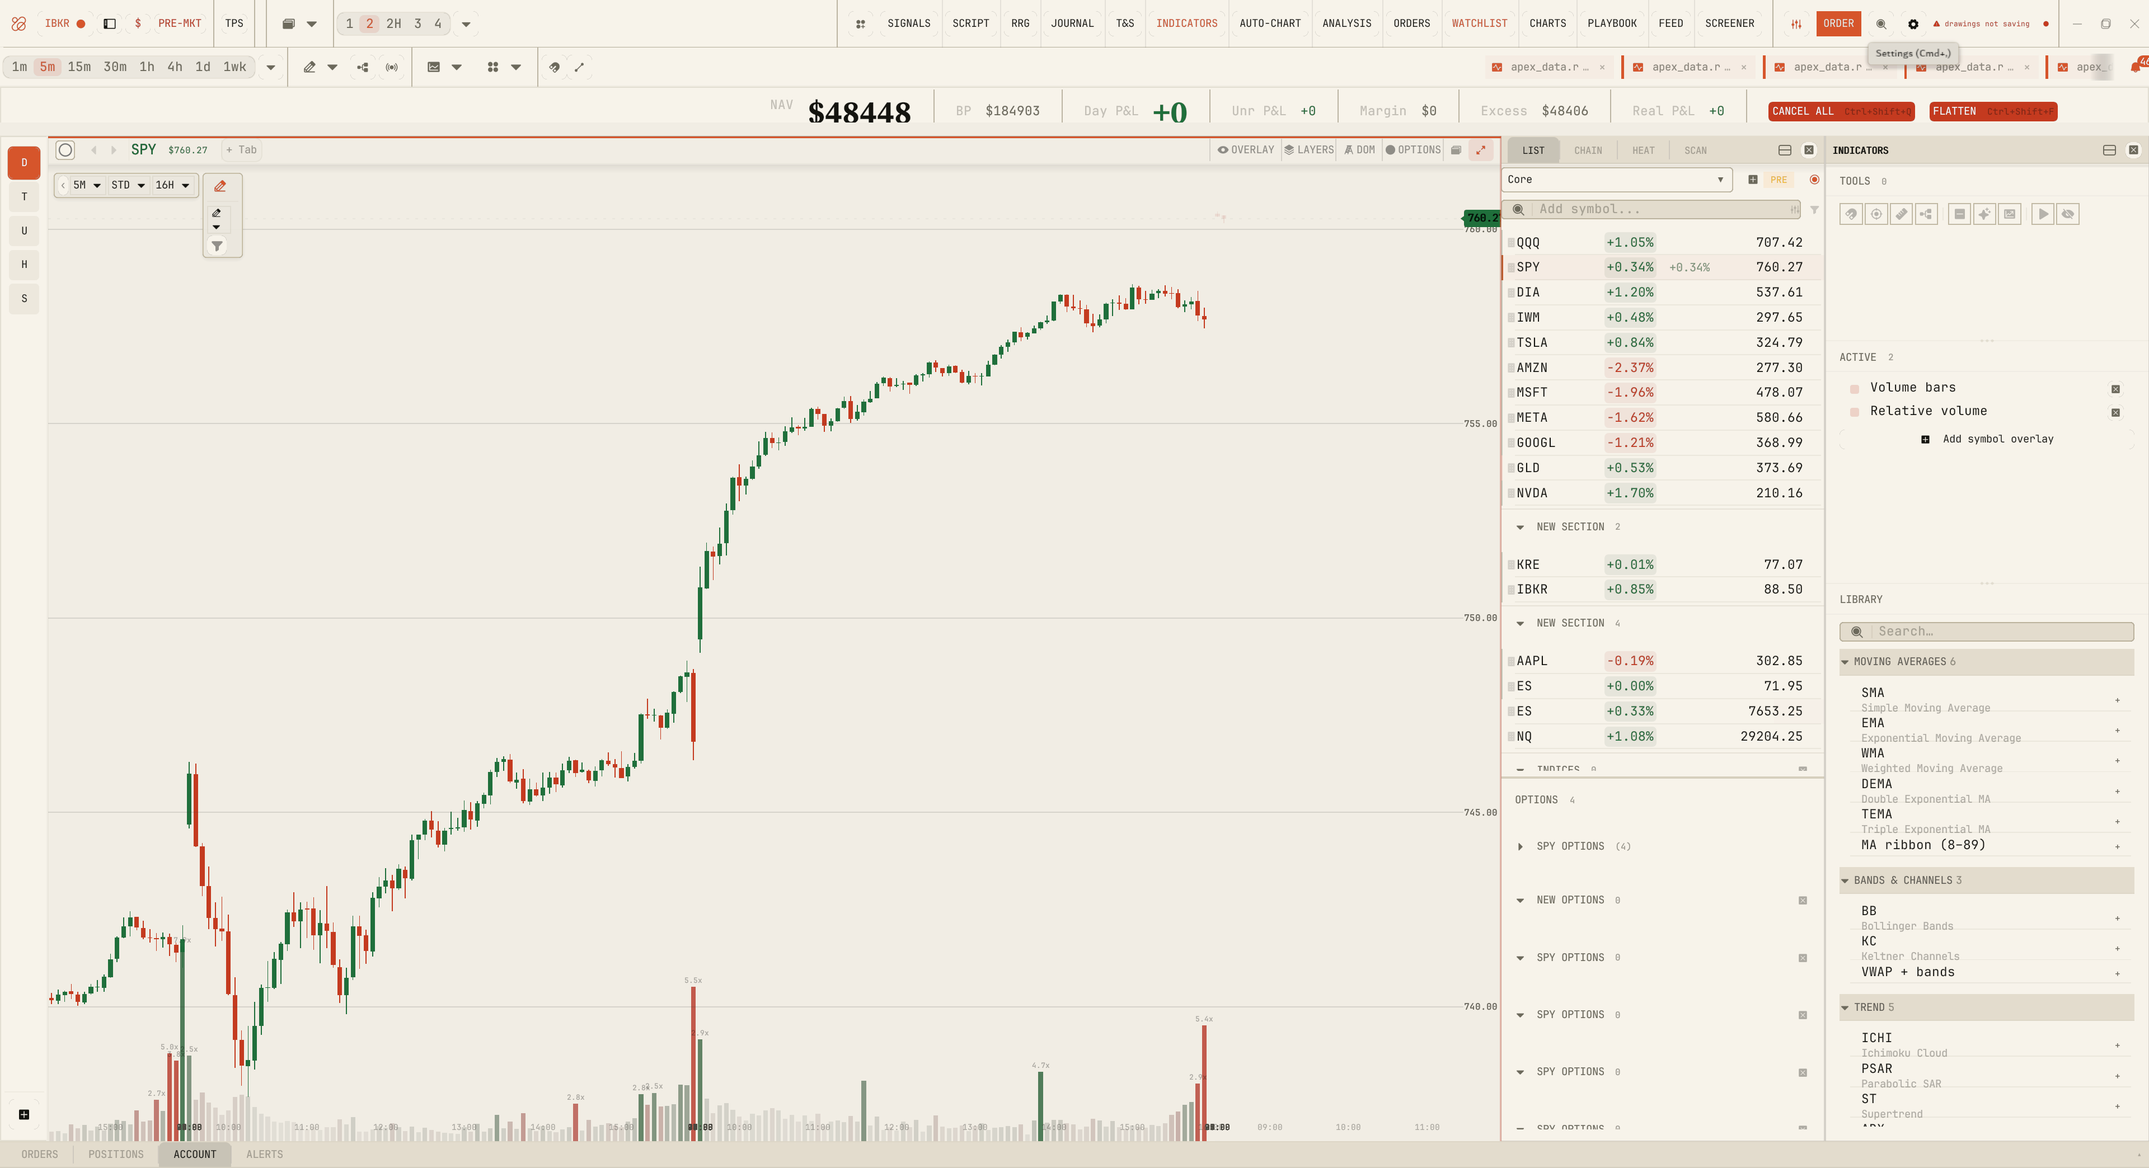
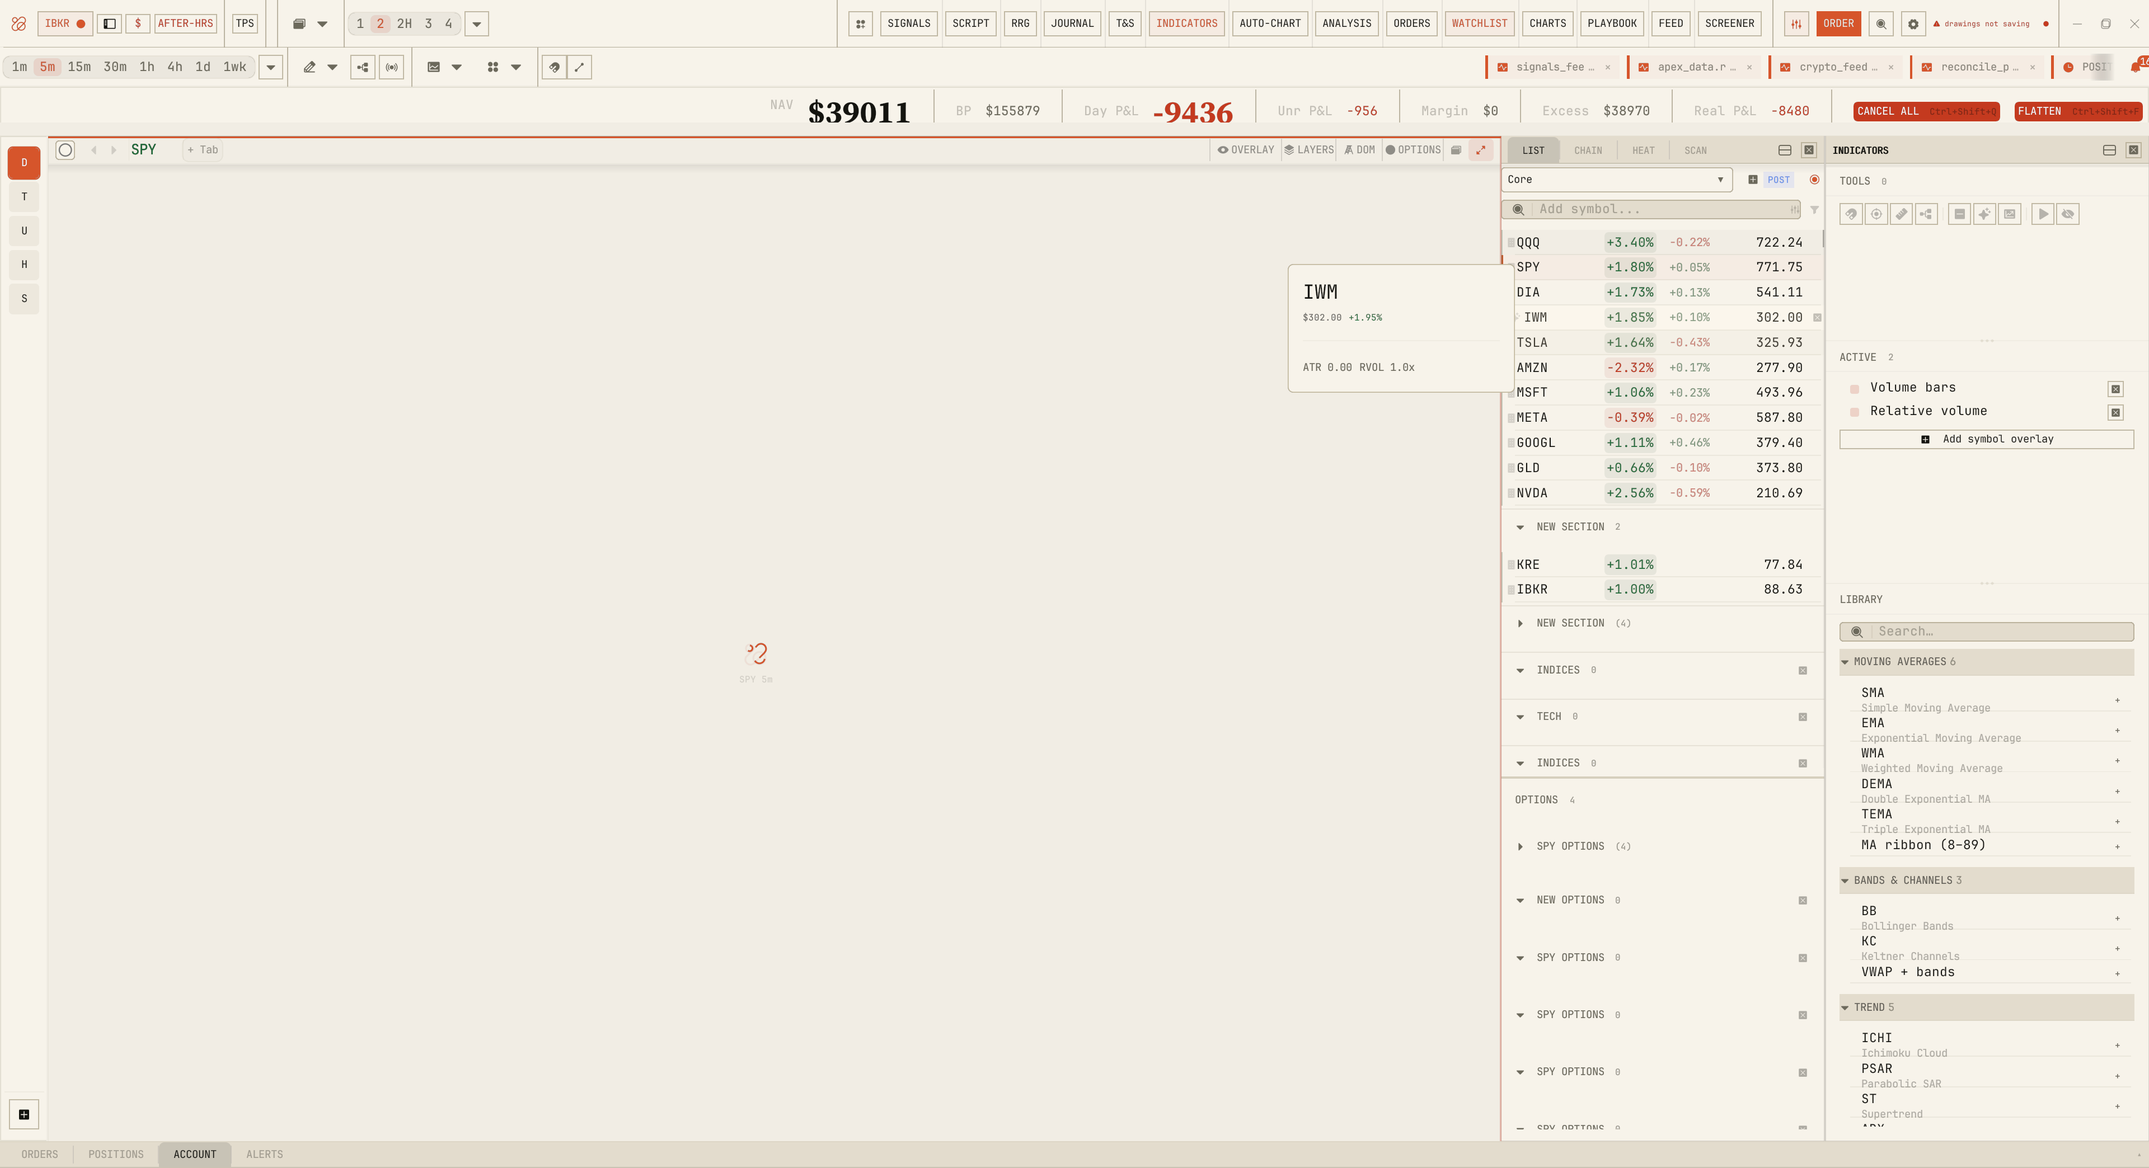
DELETE CardRecipe — the losing card mechanism is gone, not just demoted
Completes the decision: the `card` recipe won, so the mechanism it beat is
removed rather than left as a fallback. Keeping a second card mechanism
alive "just in case" is precisely how the duplication started.

Removed: the `CardRecipe` struct, `StyleSystem.card`, the four authored
values, `set_card_recipe`/`card_recipe` and their store, the adapter call,
and the export/loader wiring I had added for it two days ago.

SAFE BY CONSTRUCTION, checked before deleting rather than after: the
fallback branch was reachable only for a style that authors CardRecipe and
NOT a `card` recipe. All six builtins author the recipe — held by
`card_is_described_by_two_competing_mechanisms`, which I ran first — and
every one sets radius and padding, so `recipe_authored` was already true
everywhere. The branch was dead on arrival. Captures confirm: aperture
(0,0,0), meridien (241,237,228), unchanged.

THE TEST MOVED, IT DID NOT GO AWAY. `ds_2_4_acceptance` and
`borderless_is_the_exception_not_the_rule` asserted DS-2.4's criterion
THROUGH CardRecipe — "Aperture cards paint no stroke; Lucid pads 20px vs
Alto's 14px". Deleting the mechanism would have deleted the requirement
with it, silently, which is the worst way to lose a design constraint. I
checked the recipes carry the same values (aperture `no_border`, lucid
`px 20`, alto `px 14`) and re-pointed both tests at the recipe layer.

Deleting a mechanism must not quietly delete the requirement it happened
to be checked through.
[…]

diff --git a/src-tauri/src/design_system/builtin.rs b/src-tauri/src/design_system/builtin.rs
@@ -34,7 +34,7 @@
 use super::{
     color_scheme::{ColorScheme, Meta, Rgba, CMD_PALETTE_DEFAULT},
     style_system::{
-        Alphas, Archetype, BevelStyle, CardRecipe, Chrome, Density, Elevation, FocusRingStyle, GroupEnclosure, Radii, Shadows, ShadowLayer,
+        Alphas, Archetype, BevelStyle, Chrome, Density, Elevation, FocusRingStyle, GroupEnclosure, Radii, Shadows, ShadowLayer,
         ShadowSpec, ShadowTint, ShellSpec, Spacing, Strokes, StyleSystem, Treatments, Typography,
     },
 };
@@ -1138,8 +1138,6 @@ pub fn builtin_style_systems() -> Vec<StyleSystem> {
             panel_footer_card: false, panel_footer_radius: 0.0,
         },
         numerals: None,
-        // Meridien: square editorial card with its signature hairline rule.
-        card: Some(CardRecipe { radius: 0.0, padding: 14.0, border_width: Some(0.5) }),
     };
 
     // ── Aperture (id=1) ───────────────────────────────────────────────────────
@@ -1278,17 +1276,6 @@ pub fn builtin_style_systems() -> Vec<StyleSystem> {
             panel_footer_card: true, panel_footer_radius: 10.0,
         },
         numerals: None,
-        // DS-6.0 D4 / DS-2.4: Aperture ships `--ds-card-border: none`
-        // LITERALLY. `border_width: None` means NO STROKE AT ALL — not a
-        // zero-width one — so separation falls to elevation, the bevel tints
-        // and the background step, which is what M0-M3 built the shadow-layer
-        // stack and BevelSpec for.
-        //
-        // This had to be AUTHORED, not just declared: `CardRecipe` shipped in
-        // M1 with zero data, so every style fell through panel_card.rs's
-        // derived branch and painted `stroke_thin()`. Aperture's recipe said
-        // "no border" while the card path never saw it.
-        card: Some(CardRecipe { radius: 20.0, padding: 16.0, border_width: None }),
     };
 
     // ── Octave (id=2) ─────────────────────────────────────────────────────────
@@ -1419,7 +1406,7 @@ pub fn builtin_style_systems() -> Vec<StyleSystem> {
             panel_header_treatment: 0, panel_section_fill_alpha: 0,
             panel_footer_card: false, panel_footer_radius: 0.0,
         },
-        numerals: None, card: None,
+        numerals: None,
     };
 
     // ── Cadence (id=3) — Spotify-dark: pill primaries, elevated cards ────────
@@ -1462,8 +1449,6 @@ pub fn builtin_style_systems() -> Vec<StyleSystem> {
     // ── Alto (id=4) — Zed warm-dark: raised button faces, amber bevel ────────
     let alto = StyleSystem {
         meta: Meta::new("alto", "Alto", true),
-        // DS-2.4 acceptance: Alto's 14px against Lucid's 20px.
-        card: Some(CardRecipe { radius: 8.0, padding: 14.0, border_width: Some(1.0) }),
         radii: Radii { none: 0.0, xs: 2.0, sm: 4.0, md: 6.0, lg: 8.0, full: 9999.0, pill: 99.0, chip: 0.0 },
         density: Density { factor: 1.0, row_height_dense: 24.0, row_height_comfortable: 30.0, ..Density::default() },
         shadows: Shadows {
@@ -1523,9 +1508,6 @@ pub fn builtin_style_systems() -> Vec<StyleSystem> {
     // ── Lucid (id=6) — editorial LIGHT: flat, restrained radii, serif hero ────
     let lucid = StyleSystem {
         meta: Meta::new("lucid", "Lucid", false),
-        // DS-2.4 acceptance: Lucid pads 20px against Alto's 14px — the padding
-        // axis has to be visibly different between two light-ish editorial cards.
-        card: Some(CardRecipe { radius: 8.0, padding: 20.0, border_width: Some(1.0) }),
         // DS-6.0 D1: the theme's DEFAULT archetype. A workspace may
         // override it; see ShellSpec::resolve_archetype.
         shell: ShellSpec { archetype: Archetype::Editorial, ..ShellSpec::default() },
@@ -1704,52 +1686,63 @@ mod tests {
 
 #[cfg(test)]
 mod card_recipe_tests {
-    use super::*;
+    //! DS-2.4's acceptance, re-pointed at the RECIPE layer.
+    //!
+    //! These assertions used to read `StyleSystem.card` (CardRecipe). That
+    //! mechanism is deleted — the `card` recipe won, and every builtin authors
+    //! it — but the CRITERION it guarded is unchanged and still worth holding,
+    //! so the test moved rather than went away. Deleting a mechanism must not
+    //! quietly delete the requirement it happened to be checked through.
+    use crate::design_system::builtin_recipes::builtin_recipes;
+    use crate::ui_kit::sx::recipe_spec::{BorderWidthTier, PadTier, RadiusTier};
 
-    fn card_of(id: &str) -> CardRecipe {
-        builtin_style_systems()
-            .into_iter()
-            .find(|s| s.meta.id == id)
-            .unwrap_or_else(|| panic!("builtin style '{id}' missing"))
-            .card
-            .unwrap_or_else(|| panic!("style '{id}' authors no CardRecipe — it would \
-                fall through panel_card.rs's DERIVED branch and paint stroke_thin(), \
-                which is exactly the bug this data fixes"))
+    fn card_px(id: &str) -> f32 {
+        let set = builtin_recipes(id);
+        let spec = set.get("card").unwrap_or_else(|| panic!("style '{id}' authors no card recipe"));
+        match &spec.base.px {
+            Some(PadTier::Px(v)) => *v,
+            other => panic!("style '{id}' card padding is not a literal px: {other:?}"),
+        }
     }
 
-    /// DS-6.0 D4 / DS-2.4 acceptance, stated as the ticket words it:
     /// "Aperture cards paint no stroke; Lucid pads 20px vs Alto's 14px."
     #[test]
     fn ds_2_4_acceptance() {
-        // `None` = no stroke AT ALL, not a zero-width one. A zero-width stroke
-        // would still be a border the theme is committing to; the design says
-        // separation comes from elevation and bevel instead.
-        assert_eq!(
-            card_of("aperture").border_width, None,
-            "Aperture ships `--ds-card-border: none` literally (D4)"
+        let ap = builtin_recipes("aperture");
+        let spec = ap.get("card").expect("aperture authors card");
+        let border = spec.base.border.as_ref().expect(
+            "aperture must state its border EXPLICITLY — omitting the field inherits              the widget stroke instead of removing it",
         );
-        assert_eq!(card_of("lucid").padding, 20.0, "Lucid pads 20px");
-        assert_eq!(card_of("alto").padding,  14.0, "Alto pads 14px");
         assert!(
-            card_of("lucid").padding > card_of("alto").padding,
-            "the padding axis must be visibly different between these two, \
-             which is the point of the acceptance criterion"
+            matches!(border.width, Some(BorderWidthTier::None)),
+            "Aperture ships `--ds-card-border: none` literally; got {:?}",
+            border.width
+        );
+        assert!(matches!(spec.base.radius, Some(RadiusTier::Lg)));
+
+        assert_eq!(card_px("lucid"), 20.0, "Lucid pads 20px");
+        assert_eq!(card_px("alto"),  14.0, "Alto pads 14px");
+        assert!(
+            card_px("lucid") > card_px("alto"),
+            "the padding axis must be visibly different between these two, which is              the point of the acceptance criterion"
         );
     }
 
-    /// D4 says exceptions are PER-RECIPE, never a global fallback. So exactly
-    /// one style may be borderless today — if a second appears, that is a
-    /// global fallback creeping in by imitation rather than a design decision.
+    /// Borderless is the EXCEPTION. D4 says exceptions are per-recipe, never a
+    /// global fallback — if a second style turns up borderless that is
+    /// imitation creeping in, not a design decision.
     #[test]
     fn borderless_is_the_exception_not_the_rule() {
-        let borderless: Vec<String> = builtin_style_systems()
+        let borderless: Vec<&str> = ["aperture", "cadence", "alto", "mariner", "lucid", "meridien"]
             .into_iter()
-            .filter(|s| s.card.map(|c| c.border_width.is_none()).unwrap_or(false))
-            .map(|s| s.meta.id)
+            .filter(|id| {
+                builtin_recipes(id)
+                    .get("card")
+                    .and_then(|s| s.base.border.as_ref())
+                    .map(|b| matches!(b.width, Some(BorderWidthTier::None)))
+                    .unwrap_or(false)
+            })
             .collect();
-        assert_eq!(
-            borderless, vec!["aperture".to_string()],
-            "only Aperture is designed borderless; got {borderless:?}"
-        );
+        assert_eq!(borderless, vec!["aperture"], "only Aperture is designed borderless");
     }
 }

diff --git a/src-tauri/src/design_system/loader.rs b/src-tauri/src/design_system/loader.rs
@@ -29,7 +29,7 @@ use std::fmt;
 use super::{
     color_scheme::{rgba, ColorScheme, Meta, Rgba, CMD_PALETTE_DEFAULT},
     style_system::{
-        Alphas, BevelStyle, CardRecipe, Chrome, Density, Elevation, FocusRingStyle, GroupEnclosure,
+        Alphas, BevelStyle, Chrome, Density, Elevation, FocusRingStyle, GroupEnclosure,
         Archetype, DockStyle, NavStyle, PaneActiveIndicator, Radii, RailSide, Shadows, ShadowSpec, ShellSpec,
         Spacing, Strokes, StyleSystem, Treatments, Typography,
     },
@@ -632,20 +632,6 @@ impl StyleSystem {
             panel_footer_radius:           read_f32_or(&ch_sec, "panel_footer_radius",           "chrome", d_ch.panel_footer_radius),
         };
 
-        // M1 Change D `CardRecipe`. Absent (or null) = no authored card, which
-        // keeps panel_card.rs on its derived branch. Present-but-without
-        // `border_width` = `None`, i.e. NO STROKE AT ALL — that is Aperture's
-        // `--ds-card-border: none`, and collapsing it to 0.0 would lose the
-        // distinction the design depends on.
-        let card = root.get("card").filter(|v| !v.is_null()).map(|c| {
-            let d = CardRecipe { radius: 0.0, padding: 0.0, border_width: None };
-            CardRecipe {
-                radius:  read_f32_or(c, "radius",  "card", d.radius),
-                padding: read_f32_or(c, "padding", "card", d.padding),
-                border_width: c.get("border_width")
-                    .and_then(|n| read_f32(n, "card.border_width").ok()),
-            }
-        });
 
         // DS-6.0: shell shape. Unknown or absent members fall back to today's
         // shape rather than erroring — a pack written before this block existed
@@ -693,7 +679,7 @@ impl StyleSystem {
             }
         };
 
-        Ok(StyleSystem { meta, typography, spacing, radii, strokes, alphas, elevation, density, shadows, treatments, chrome, numerals: None, card, shell })
+        Ok(StyleSystem { meta, typography, spacing, radii, strokes, alphas, elevation, density, shadows, treatments, chrome, numerals: None, shell })
     }
 }
 
@@ -935,7 +921,7 @@ mod tests {
                 panel_footer_card: true,
                 panel_footer_radius: 8.0,
             },
-            numerals: None, card: None,
+            numerals: None,
         };
 
         let json = original.to_dtcg();

diff --git a/src-tauri/src/ui_kit/widgets/panel_card.rs b/src-tauri/src/ui_kit/widgets/panel_card.rs
@@ -107,14 +107,15 @@ impl PanelCard {
         // and Tabs resolve through, and it is authored everywhere rather than
         // on four of six styles.
         //
-        // CardRecipe is kept as a fallback so a pack that authors only the
-        // legacy field still themes its cards; it is scheduled for deletion
-        // once nothing relies on it.
+        // The legacy `StyleSystem.card` (CardRecipe) that used to be consulted
+        // here is GONE. It was reachable only for a style that authored it and
+        // NOT a `card` recipe; every builtin authors the recipe, so the branch
+        // was dead on arrival. Keeping a second card mechanism alive "just in
+        // case" is how the duplication started.
         //
         // `border_width: None` / a recipe with no border still means NO STROKE
         // AT ALL, not a zero-width one — Aperture's borderless lifted tiles.
         let recipes = get_ambient_recipes(ui.ctx());
-        let card_recipe = crate::ui_kit::style::card_recipe();
         let default_card_sx = Sx::new();
         // Floating styles (Aperture / Cadence / Glass — `cards_float()`) get
         // `card.floating` when a style authors it, falling back to `card`.
@@ -151,12 +152,6 @@ impl PanelCard {
                 p as i8,
                 stroke,
             )
-        } else if let Some(cr) = card_recipe {
-            let stroke = match cr.border_width {
-                Some(w) => Stroke::new(w, border),
-                None    => Stroke::NONE,
-            };
-            (egui::CornerRadius::same(cr.radius as u8), cr.padding as i8, stroke)
         } else {
             (radius, pad, Stroke::new(crate::ui_kit::style::stroke_thin(), border))
         };

diff --git a/src-tauri/src/design_system/export.rs b/src-tauri/src/design_system/export.rs
@@ -266,24 +266,6 @@ impl StyleSystem {
             // the "lossy pack round-trip" defect the architecture audit called
             // out; adding `shell` without this block broke three import tests
             // immediately, which is the system working.
-            // M1 Change D's `CardRecipe`, finally serialised. It was `None` on
-            // every style until D4 authored the card data, so it round-tripped
-            // trivially and nobody noticed it was never written. Emitted only
-            // when authored; `border_width` is emitted only when `Some`, so
-            // "key absent inside a present card block" IS the None case — the
-            // distinction that matters, since None means no stroke at all.
-            "card": match &self.card {
-                Some(c) => {
-                    let mut m = serde_json::Map::new();
-                    m.insert("radius".into(),  dim!(c.radius));
-                    m.insert("padding".into(), dim!(c.padding));
-                    if let Some(w) = c.border_width {
-                        m.insert("border_width".into(), dim!(w));
-                    }
-                    Value::Object(m)
-                }
-                None => Value::Null,
-            },
             "shell": {
                 "nav":       str_tok!(format!("{:?}", shl.nav)),
                 "dock":      str_tok!(format!("{:?}", shl.dock)),

diff --git a/src-tauri/src/design_system/style_system.rs b/src-tauri/src/design_system/style_system.rs
@@ -661,15 +661,6 @@ pub struct NumeralTier {
     pub weight:   u16,
 }
 
-/// Card chrome as ONE addressable recipe. `border_width: None` = NO stroke at
-/// all (Aperture's `--ds-card-border: none`), which no radius/stroke scale
-/// could previously express.
-#[derive(Clone, Copy, Debug, PartialEq, Serialize, Deserialize)]
-pub struct CardRecipe {
-    pub radius:  f32,
-    pub padding: f32,
-    pub border_width: Option<f32>,
-}
 
 // ── M1 Change E: multi-layer shadow stacks (additive; legacy specs stay) ────
 //
@@ -1149,10 +1140,6 @@ pub struct StyleSystem {
     /// M1 Change D: display-numeral treatment. `None` = classic mono.
     #[serde(default)]
     pub numerals: Option<NumeralTier>,
-    /// M1 Change D: card chrome recipe. `None` = derived (radius_lg /
-    /// gap-based padding / thin border), byte-identical to pre-M1.
-    #[serde(default)]
-    pub card: Option<CardRecipe>,
 
     /// DS-6.0: shell shape + the theme's DEFAULT layout archetype.
     ///
@@ -1331,7 +1318,7 @@ impl StyleSystem {
             shadows:    Shadows::default(),
             treatments: Treatments::default(),
             chrome:     Chrome::default(),
-            numerals: None, card: None,
+            numerals: None,
         }
     }
 

diff --git a/src-tauri/src/ui_kit/style.rs b/src-tauri/src/ui_kit/style.rs
@@ -236,21 +236,12 @@ thread_local! {
 }
 
 thread_local! {
-    static CARD_RECIPE: std::cell::Cell<
-        Option<crate::design_system::style_system::CardRecipe>
-    > = std::cell::Cell::new(None);
     static NUMERAL_TIER: std::cell::Cell<
         Option<crate::design_system::style_system::NumeralTier>
     > = std::cell::Cell::new(None);
 }
 
 /// M1 Change D setters/getters (pushed by `begin_frame`).
-pub fn set_card_recipe(cr: Option<crate::design_system::style_system::CardRecipe>) {
-    CARD_RECIPE.with(|c| c.set(cr));
-}
-pub fn card_recipe() -> Option<crate::design_system::style_system::CardRecipe> {
-    CARD_RECIPE.with(|c| c.get())
-}
 pub fn set_numeral_tier(nt: Option<crate::design_system::style_system::NumeralTier>) {
     NUMERAL_TIER.with(|c| c.set(nt));
 }

diff --git a/src-tauri/src/chart/renderer/ui/style.rs b/src-tauri/src/chart/renderer/ui/style.rs
@@ -229,7 +229,6 @@ pub fn begin_frame() {
         ass.shadows.modal_layers.clone(),
     );
     // M1 Change D: signature tokens (None = derived classics).
-    crate::ui_kit::style::set_card_recipe(ass.card);
     crate::ui_kit::style::set_numeral_tier(ass.numerals);
 }
 

diff --git a/src-tauri/src/design_system/baseline.rs b/src-tauri/src/design_system/baseline.rs
@@ -281,7 +281,7 @@ pub fn baseline_style_system() -> StyleSystem {
             pane_gap: 0.0, pane_active_indicator: 1, tab_underline_thickness: 2.0,
             ..Chrome::default()
         },
-        numerals: None, card: None,
+        numerals: None,
     }
 }
 
